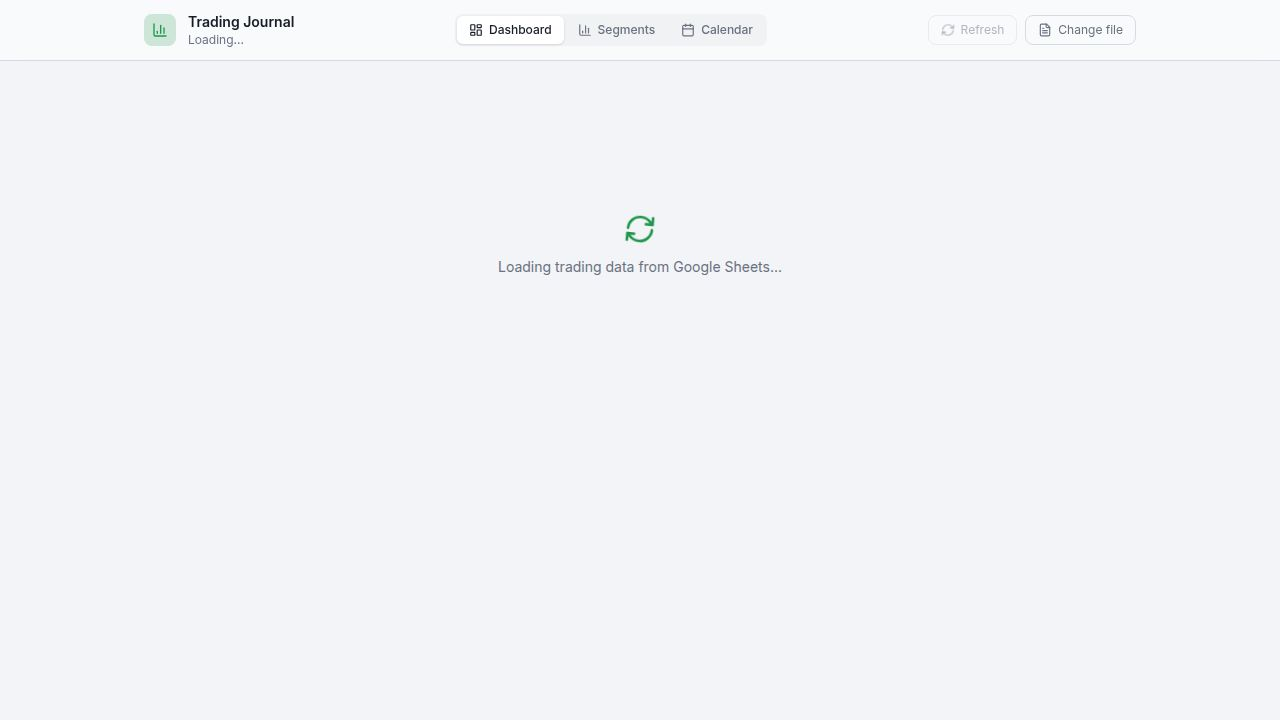
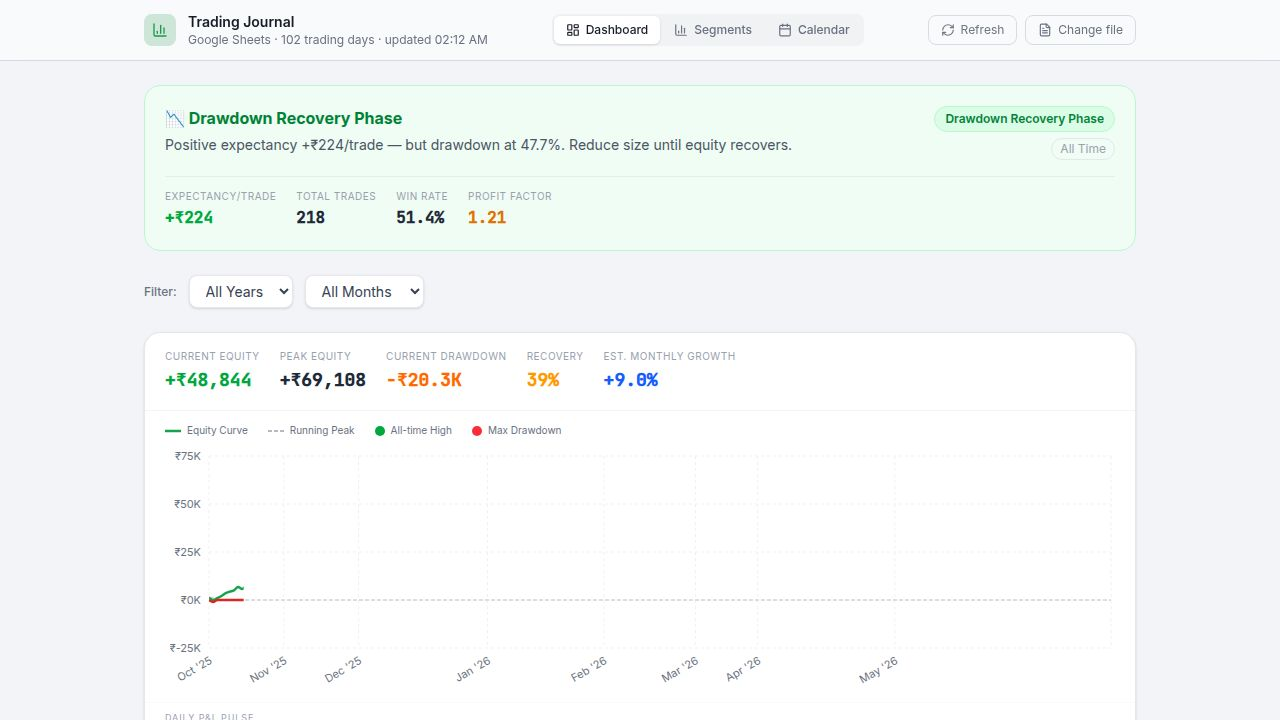
Replace monthly heatmap with segment heatmap on segments page
Update artifacts/trading-journal/src/components/Segments.tsx to replace the existing MonthlyHeatmap component with a new SegmentHeatmap component, improving data visualization and clarity.

Replit-Commit-Author: Agent
Replit-Commit-Session-Id: c1ba2cdf-071c-492d-bce1-0ca4602c9fcc
Replit-Commit-Checkpoint-Type: full_checkpoint
Replit-Commit-Event-Id: 2091335f-8be3-441a-a760-8b0e895a9e6a
Replit-Commit-Screenshot-Url: https://storage.googleapis.com/screenshot-production-us-central1/ed35be8e-1ec2-4d7c-97cb-3fcc54fbb768/c1ba2cdf-071c-492d-bce1-0ca4602c9fcc/sZk4VrV
Replit-Helium-Checkpoint-Created: true

diff --git a/artifacts/trading-journal/src/components/Segments.tsx b/artifacts/trading-journal/src/components/Segments.tsx
@@ -131,99 +131,139 @@ function SegmentIntelCard({ seg, rank, trades: allTrades }: { seg: SegmentStats;
   );
 }
 
-/* ── Monthly Heatmap ──────────────────────────────────────────── */
-function MonthlyHeatmap({ trades }: { trades: Trade[] }) {
-  const { groups, months } = useMemo(() => {
-    const groupNames = ['Nifty CE', 'Nifty PE', 'Banknifty CE', 'Banknifty PE', 'Sensex CE', 'Sensex PE'];
+
+/* ── Segment × Month Heatmap (from Dashboard) ─────────────────── */
+function SegmentHeatmap({ trades }: { trades: Trade[] }) {
+  const { months, segments, cellMap, segTotals } = useMemo(() => {
     const monthSet = new Set<string>();
-    const data = new Map<string, Map<string, number>>();
-
+    const monthMeta = new Map<string, { year: number; month: number; label: string }>();
+    const segSet    = new Set<string>();
+    const cellMap   = new Map<string, number>();
+    const segTotals = new Map<string, number>();
     for (const t of trades) {
       const y = t.date.getFullYear(), m = t.date.getMonth();
-      const monthKey = `${MONTH_SHORT[m]} ${y}`;
-      const seg = t.segment;
-      let group = '';
-      const sl = seg.toLowerCase().replace(/\s/g, '');
-      if (sl.startsWith('banknifty')) group = sl.includes('ce') ? 'Banknifty CE' : 'Banknifty PE';
-      else if (sl.startsWith('nifty')) group = sl.includes('ce') ? 'Nifty CE' : 'Nifty PE';
-      else if (sl.startsWith('sensex')) group = sl.includes('ce') ? 'Sensex CE' : 'Sensex PE';
-      if (!group) continue;
-      monthSet.add(monthKey);
-      if (!data.has(group)) data.set(group, new Map());
-      const cur = data.get(group)!.get(monthKey) ?? 0;
-      data.get(group)!.set(monthKey, cur + t.actualProfit);
+      const mk = `${y}-${String(m).padStart(2, '0')}`;
+      monthSet.add(mk);
+      if (!monthMeta.has(mk)) monthMeta.set(mk, { year: y, month: m, label: `${MONTH_SHORT[m]} '${String(y).slice(2)}` });
+      segSet.add(t.segment);
+      const ck = `${t.segment}|${mk}`;
+      cellMap.set(ck, (cellMap.get(ck) ?? 0) + t.actualProfit);
+      segTotals.set(t.segment, (segTotals.get(t.segment) ?? 0) + t.actualProfit);
     }
-
-    const months = Array.from(monthSet).sort((a, b) => {
-      const [ma, ya] = a.split(' '); const [mb, yb] = b.split(' ');
-      return parseInt(ya) !== parseInt(yb) ? parseInt(ya) - parseInt(yb) : MONTH_SHORT.indexOf(ma) - MONTH_SHORT.indexOf(mb);
-    });
-
-    const groups = groupNames.filter(g => data.has(g));
-    return { groups, months, data };
+    const months   = [...monthSet].sort().map(k => ({ key: k, ...monthMeta.get(k)! }));
+    const segments = [...segSet].sort((a, b) => (segTotals.get(b) ?? 0) - (segTotals.get(a) ?? 0));
+    return { months, segments, cellMap, segTotals };
   }, [trades]);
 
-  if (!groups.length || !months.length) return null;
+  const maxAbs = useMemo(() => {
+    let max = 0;
+    for (const v of cellMap.values()) if (Math.abs(v) > max) max = Math.abs(v);
+    return max || 1;
+  }, [cellMap]);
 
-  const data = useMemo(() => {
-    const d = new Map<string, Map<string, number>>();
-    for (const t of trades) {
-      const y = t.date.getFullYear(), m = t.date.getMonth();
-      const monthKey = `${MONTH_SHORT[m]} ${y}`;
-      const seg = t.segment;
-      let group = '';
-      const sl = seg.toLowerCase().replace(/\s/g, '');
-      if (sl.startsWith('banknifty')) group = sl.includes('ce') ? 'Banknifty CE' : 'Banknifty PE';
-      else if (sl.startsWith('nifty')) group = sl.includes('ce') ? 'Nifty CE' : 'Nifty PE';
-      else if (sl.startsWith('sensex')) group = sl.includes('ce') ? 'Sensex CE' : 'Sensex PE';
-      if (!group) continue;
-      if (!d.has(group)) d.set(group, new Map());
-      const cur = d.get(group)!.get(monthKey) ?? 0;
-      d.get(group)!.set(monthKey, cur + t.actualProfit);
-    }
-    return d;
-  }, [trades]);
+  const cellCss = (pnl: number | undefined): { style: React.CSSProperties; textClass: string; borderColor: string } => {
+    if (pnl === undefined) return { style: { background: 'transparent' }, textClass: '', borderColor: 'transparent' };
+    const ratio = Math.min(1, Math.abs(pnl) / maxAbs);
+    const opacity = 0.06 + ratio * 0.22;
+    if (pnl > 0) return {
+      style: { background: `rgba(16,185,129,${opacity})` },
+      textClass: ratio > 0.55 ? 'text-emerald-800' : 'text-emerald-600',
+      borderColor: `rgba(16,185,129,${opacity + 0.15})`,
+    };
+    return {
+      style: { background: `rgba(251,113,133,${opacity})` },
+      textClass: ratio > 0.55 ? 'text-rose-800' : 'text-rose-500',
+      borderColor: `rgba(251,113,133,${opacity + 0.15})`,
+    };
+  };
+
+  const fmtCell = (v: number) =>
+    `${v >= 0 ? '+' : '-'}${Math.abs(v) >= 1000 ? `${(Math.abs(v) / 1000).toFixed(1)}K` : String(Math.abs(Math.round(v)))}`;
+
+  if (!segments.length || !months.length) return null;
 
   return (
-    <div className="bg-white border border-gray-200 rounded-xl shadow-sm overflow-hidden">
-      <div className="px-4 py-3 border-b border-gray-100">
-        <h3 className="text-sm font-semibold text-gray-900">Monthly Performance Heatmap</h3>
-        <p className="text-xs text-gray-400 mt-0.5">Green = profitable month · Red = losing month</p>
+    <div className="rounded-2xl overflow-hidden border border-gray-200 shadow-sm">
+      <div className="px-5 py-4 bg-white border-b border-gray-100 flex flex-wrap items-center justify-between gap-3">
+        <div>
+          <h3 className="text-sm font-semibold text-gray-900">Segment × Month</h3>
+          <p className="text-[10px] text-gray-400 mt-0.5">{segments.length} segments · {months.length} months · color intensity = P&amp;L size</p>
+        </div>
+        <div className="flex items-center gap-1.5">
+          <span className="text-[10px] text-gray-400 mr-1">Loss</span>
+          {[0.08, 0.14, 0.2, 0.27].reverse().map(o => (
+            <div key={o} className="w-4 h-4 rounded border" style={{ background: `rgba(251,113,133,${o})`, borderColor: `rgba(251,113,133,${o + 0.15})` }} />
+          ))}
+          <div className="w-4 h-4 rounded bg-gray-50 border border-gray-200" />
+          {[0.08, 0.14, 0.2, 0.27].map(o => (
+            <div key={o} className="w-4 h-4 rounded border" style={{ background: `rgba(16,185,129,${o})`, borderColor: `rgba(16,185,129,${o + 0.15})` }} />
+          ))}
+          <span className="text-[10px] text-gray-400 ml-1">Profit</span>
+        </div>
       </div>
-      <div className="overflow-x-auto">
-        <table className="w-full text-xs">
+      <div className="overflow-x-auto bg-white">
+        <table className="w-full border-collapse">
           <thead>
-            <tr className="border-b border-gray-100">
-              <th className="px-3 py-2 text-left text-[10px] text-gray-400 font-medium w-28">Segment</th>
-              {months.slice(-12).map(m => (
-                <th key={m} className="px-1 py-2 text-center text-[10px] text-gray-400 font-medium min-w-[52px]">{m}</th>
+            <tr>
+              <th className="sticky left-0 z-10 bg-white px-4 py-3 text-left min-w-[120px]">
+                <span className="text-[10px] font-bold text-gray-300 uppercase tracking-widest">Segment</span>
+              </th>
+              {months.map(m => (
+                <th key={m.key} className="px-1.5 py-3 min-w-[72px]">
+                  <span className="inline-flex items-center justify-center rounded-full bg-gray-100 px-2.5 py-0.5 text-[10px] font-semibold text-gray-500 whitespace-nowrap">
+                    {m.label}
+                  </span>
+                </th>
               ))}
+              <th className="pl-3 pr-4 py-3 min-w-[88px]" style={{ borderLeft: '2px solid #e5e7eb' }}>
+                <span className="inline-flex items-center justify-center rounded-full bg-gray-900 px-3 py-0.5 text-[10px] font-bold text-white whitespace-nowrap tracking-wide">
+                  TOTAL
+                </span>
+              </th>
             </tr>
           </thead>
           <tbody>
-            {groups.map(group => (
-              <tr key={group} className="border-b border-gray-50">
-                <td className="px-3 py-2 text-[10px] font-semibold text-gray-600 whitespace-nowrap">{group}</td>
-                {months.slice(-12).map(m => {
-                  const pnl = data.get(group)?.get(m) ?? null;
-                  const isPos = pnl !== null && pnl > 0;
-                  const isNeg = pnl !== null && pnl < 0;
-                  return (
-                    <td key={m} className="px-1 py-1.5 text-center">
-                      {pnl !== null ? (
-                        <div className={`rounded-lg px-1 py-1.5 text-[9px] font-mono font-bold ${
-                          isPos ? 'bg-green-100 text-green-700' : isNeg ? 'bg-red-100 text-red-600' : 'bg-gray-100 text-gray-400'
-                        }`}>
-                          {pnl >= 0 ? '+' : ''}{(pnl/1000).toFixed(1)}K
-                        </div>
-                      ) : (
-                        <div className="rounded-lg px-1 py-1.5 bg-gray-50 text-gray-200 text-[9px] text-center">—</div>
-                      )}
-                    </td>
-                  );
-                })}
-              </tr>
-            ))}
+            {segments.map((seg, ri) => {
+              const total  = segTotals.get(seg) ?? 0;
+              const isPos  = total >= 0;
+              return (
+                <tr key={seg} className={`group ${ri % 2 === 0 ? 'bg-white' : 'bg-gray-50/40'} hover:bg-blue-50/30 transition-colors`}>
+                  <td className="sticky left-0 z-10 px-4 py-2" style={{ background: ri % 2 === 0 ? '#fff' : 'rgba(249,250,251,0.4)' }}>
+                    <div className="flex items-center gap-2">
+                      <div className={`w-1.5 h-1.5 rounded-full shrink-0 ${isPos ? 'bg-green-500' : 'bg-red-400'}`} />
+                      <span className="text-xs font-semibold text-gray-700 whitespace-nowrap">{seg}</span>
+                    </div>
+                  </td>
+                  {months.map(m => {
+                    const pnl = cellMap.get(`${seg}|${m.key}`);
+                    const { style, textClass, borderColor } = cellCss(pnl);
+                    return (
+                      <td key={m.key} className="px-1 py-1.5 text-center"
+                        title={pnl !== undefined ? `${seg} · ${m.label}: ${fmtCell(pnl)}` : 'No trades'}>
+                        {pnl !== undefined ? (
+                          <div className="rounded-lg px-1.5 py-1.5 mx-0.5 border" style={{ ...style, borderColor }}>
+                            <span className={`text-[10px] font-bold font-mono whitespace-nowrap ${textClass}`}>
+                              {fmtCell(pnl)}
+                            </span>
+                          </div>
+                        ) : (
+                          <div className="rounded-lg px-1.5 py-1.5 mx-0.5">
+                            <span className="text-[10px] text-gray-200">·</span>
+                          </div>
+                        )}
+                      </td>
+                    );
+                  })}
+                  <td className="pl-3 pr-4 py-1.5 text-center" style={{ borderLeft: '2px solid #e5e7eb' }}>
+                    <div className={`rounded-xl px-2.5 py-2 ${isPos ? 'bg-gray-900' : 'bg-gray-800'}`}>
+                      <span className={`text-[11px] font-extrabold font-mono whitespace-nowrap ${isPos ? 'text-green-400' : 'text-red-400'}`}>
+                        {fmtCell(total)}
+                      </span>
+                    </div>
+                  </td>
+                </tr>
+              );
+            })}
           </tbody>
         </table>
       </div>
@@ -454,14 +494,14 @@ export function Segments({ trades: allTrades }: Props) {
         </div>
       )}
 
-      {/* ── Monthly Heatmap ── */}
+      {/* ── Segment × Month Heatmap ── */}
       {filteredTrades.length > 0 && (
         <div>
           <div className="mb-3">
-            <h2 className="text-sm font-semibold text-gray-900">Monthly Heatmap</h2>
-            <p className="text-xs text-gray-400 mt-0.5">Segment profitability by month — last 12 months shown</p>
+            <h2 className="text-sm font-semibold text-gray-900">Segment × Month</h2>
+            <p className="text-xs text-gray-400 mt-0.5">Segment profitability by month — color intensity = P&L size</p>
           </div>
-          <MonthlyHeatmap trades={filteredTrades} />
+          <SegmentHeatmap trades={filteredTrades} />
         </div>
       )}
     </div>